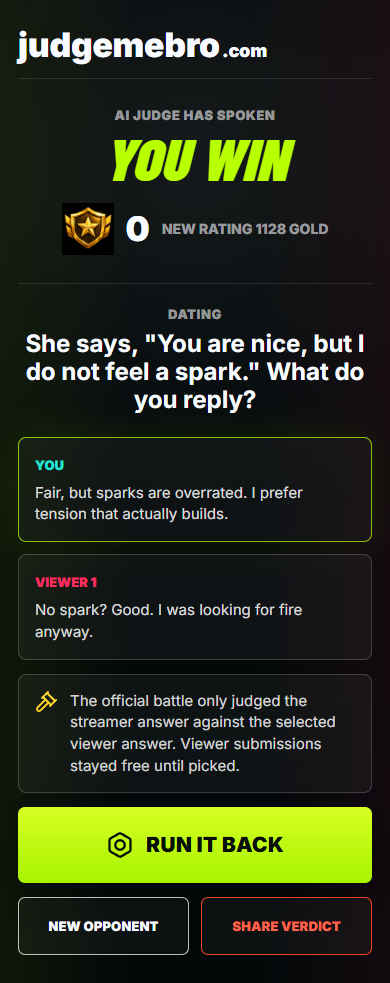
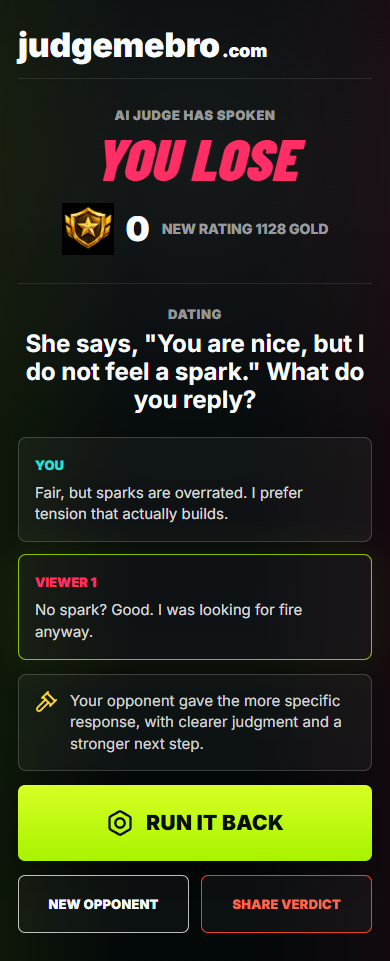
Add Vercel judge API

diff --git a/src/lib/judgeEngine.js b/src/lib/judgeEngine.js
@@ -1,0 +1,81 @@
+const MIN_STRONG_ANSWER_LENGTH = 42;
+
+export function normalizeAnswer(answer) {
+  return String(answer ?? "").trim();
+}
+
+export function judgeAnswers({
+  mode = "ranked",
+  category,
+  prompt,
+  yourAnswer,
+  opponentAnswer,
+  opponent = "Juno",
+}) {
+  const cleanYourAnswer = normalizeAnswer(yourAnswer);
+  const cleanOpponentAnswer = normalizeAnswer(opponentAnswer);
+  const noAnswer = cleanYourAnswer.length === 0;
+  const opponentMissed = cleanOpponentAnswer.length === 0;
+  const bothMissed = noAnswer && opponentMissed;
+
+  const specificityScore = scoreAnswer(cleanYourAnswer);
+  const opponentSpecificityScore = scoreAnswer(cleanOpponentAnswer);
+  const youWin = !bothMissed && !noAnswer && (opponentMissed || specificityScore >= opponentSpecificityScore);
+  const points = mode === "bot" || mode === "streamer" || bothMissed ? 0 : youWin ? 18 : -18;
+
+  return {
+    mode,
+    category,
+    opponent,
+    prompt,
+    yourAnswer: cleanYourAnswer || "No answer submitted.",
+    opponentAnswer: cleanOpponentAnswer || "No answer submitted.",
+    youWin,
+    points,
+    reason: buildReason({
+      bothMissed,
+      noAnswer,
+      opponentMissed,
+      youWin,
+      specificityScore,
+      opponentSpecificityScore,
+    }),
+    judgeModel: "local-deterministic-v1",
+  };
+}
+
+function scoreAnswer(answer) {
+  if (!answer) return 0;
+
+  const lengthScore = Math.min(answer.length / MIN_STRONG_ANSWER_LENGTH, 2);
+  const questionScore = answer.includes("?") ? 0.35 : 0;
+  const boundaryScore = /\b(no|not|can't|cannot|scope|quality|plan|checkpoint|confess|boundary|take it down)\b/i.test(answer)
+    ? 0.45
+    : 0;
+  const accountabilityScore = /\b(own|accountability|here is|next|what part|can we|before)\b/i.test(answer)
+    ? 0.35
+    : 0;
+  const panicPenalty = /\b(discount|done|whatever|fine|not my problem)\b/i.test(answer) ? -0.35 : 0;
+
+  return lengthScore + questionScore + boundaryScore + accountabilityScore + panicPenalty;
+}
+
+function buildReason({
+  bothMissed,
+  noAnswer,
+  opponentMissed,
+  youWin,
+  specificityScore,
+  opponentSpecificityScore,
+}) {
+  if (bothMissed) return "Both players missed the timer, so no rating change happens.";
+  if (noAnswer) return "You missed the timer, so the round goes to your opponent.";
+  if (opponentMissed) return "Your opponent missed the timer, so you win by default.";
+  if (youWin) {
+    return specificityScore > opponentSpecificityScore + 0.35
+      ? "You gave the more specific, controlled response and kept the situation moving."
+      : "Your answer was slightly stronger because it balanced confidence with a practical next step.";
+  }
+
+  return "Your opponent gave the more specific response, with clearer judgment and a stronger next step.";
+}

diff --git a/src/App.jsx b/src/App.jsx
@@ -1,4 +1,4 @@
-import { useEffect, useMemo, useState } from "react";
+import { useEffect, useMemo, useRef, useState } from "react";
 import {
   BadgeCheck,
   Bell,
@@ -29,6 +29,7 @@ import {
 } from "lucide-react";
 import { bots, categories, scenarios, viewerAnswers as seedViewerAnswers } from "./data.js";
 import { recordBattleResult, recordViewerSubmission } from "./lib/gameRepository.js";
+import { requestJudgeVerdict } from "./lib/judgeClient.js";
 
 const iconMap = {
   Briefcase,
@@ -48,30 +49,6 @@ function clampAnswer(value) {
 
 function getScenario(categoryId) {
   return scenarios[categoryId] ?? scenarios.social;
-}
-
-function buildResult({ category, answer, opponent = "Juno", mode = "ranked", botName }) {
-  const scenario = getScenario(category.id);
-  const typed = answer.trim();
-  const noAnswer = typed.length === 0;
-  const youWin = !noAnswer && typed.length >= 42;
-  const points = mode === "bot" ? 0 : youWin ? 18 : -18;
-
-  return {
-    mode,
-    category,
-    opponent: botName ?? opponent,
-    prompt: scenario.prompt,
-    yourAnswer: noAnswer ? "No answer submitted." : typed,
-    opponentAnswer: mode === "bot" ? scenario.winningAnswer : scenario.opponentAnswer,
-    youWin,
-    points,
-    reason: noAnswer
-      ? "You missed the timer, so the round goes to your opponent."
-      : youWin
-        ? scenario.reason
-        : "Your answer was shorter and less specific, so the judge gave the round away.",
-  };
 }
 
 function BrandHeader({ onHome, onProfile, onLeave, compact = false }) {
@@ -676,6 +653,7 @@ export function App() {
   const [friendJoined, setFriendJoined] = useState(false);
   const [battleMode, setBattleMode] = useState("ranked");
   const [botName, setBotName] = useState(null);
+  const isJudgingRef = useRef(false);
 
   const botReady = matchElapsed >= 5;
 
@@ -709,6 +687,7 @@ export function App() {
     setTimer(24);
     setMatchElapsed(0);
     setFriendJoined(false);
+    isJudgingRef.current = false;
   }
 
   function startMatchmaking() {
@@ -732,18 +711,24 @@ export function App() {
     window.setTimeout(() => finishRound(), 1600);
   }
 
-  function finishRound() {
-    const nextResult = buildResult({
+  async function finishRound() {
+    if (isJudgingRef.current) return;
+    isJudgingRef.current = true;
+    const scenario = getScenario(selectedCategory.id);
+    const nextResult = await requestJudgeVerdict({
       category: selectedCategory,
-      answer,
+      prompt: scenario.prompt,
+      yourAnswer: answer,
+      opponentAnswer: battleMode === "bot" ? scenario.winningAnswer : scenario.opponentAnswer,
       mode: battleMode,
-      botName,
+      opponent: botName ?? "Juno",
     });
     setResult(nextResult);
     recordBattleResult(nextResult).catch((error) => {
       console.warn("Battle result persistence failed", error);
     });
     setRating((current) => current + nextResult.points);
+    isJudgingRef.current = false;
     setScreen("result");
   }
 
@@ -759,23 +744,22 @@ export function App() {
     }
   }
 
-  function officialStreamerBattle(streamerAnswer, viewerAnswer) {
-    const nextResult = {
+  async function officialStreamerBattle(streamerAnswer, viewerAnswer) {
+    if (isJudgingRef.current) return;
+    isJudgingRef.current = true;
+    const nextResult = await requestJudgeVerdict({
       mode: "streamer",
       category: categories[1],
       opponent: viewerAnswer.name,
       prompt: getScenario("dating").prompt,
       yourAnswer: streamerAnswer,
       opponentAnswer: viewerAnswer.text,
-      youWin: streamerAnswer.length >= viewerAnswer.text.length,
-      points: 0,
-      reason:
-        "The official battle only judged the streamer answer against the selected viewer answer. Viewer submissions stayed free until picked.",
-    };
+    });
     setResult(nextResult);
     recordBattleResult(nextResult).catch((error) => {
       console.warn("Streamer battle persistence failed", error);
     });
+    isJudgingRef.current = false;
     setScreen("result");
   }
 

diff --git a/src/lib/judgeClient.js b/src/lib/judgeClient.js
@@ -1,0 +1,36 @@
+import { judgeAnswers } from "./judgeEngine.js";
+
+export async function requestJudgeVerdict(payload) {
+  if (shouldUseLocalJudge()) {
+    return {
+      ...judgeAnswers(payload),
+      judgeSource: "local-fallback",
+    };
+  }
+
+  try {
+    const response = await fetch("/api/judge", {
+      method: "POST",
+      headers: {
+        "Content-Type": "application/json",
+      },
+      body: JSON.stringify(payload),
+    });
+
+    if (!response.ok) throw new Error(`Judge API returned ${response.status}`);
+    const data = await response.json();
+    if (!data?.result) throw new Error("Judge API response missing result");
+    return { ...data.result, judgeSource: "api" };
+  } catch (error) {
+    return {
+      ...judgeAnswers(payload),
+      judgeSource: "local-fallback",
+      judgeError: error.message,
+    };
+  }
+}
+
+function shouldUseLocalJudge() {
+  if (typeof window === "undefined") return false;
+  return ["localhost", "127.0.0.1", "::1"].includes(window.location.hostname);
+}

diff --git a/api/judge.js b/api/judge.js
@@ -1,0 +1,35 @@
+import { judgeAnswers } from "../src/lib/judgeEngine.js";
+
+const MAX_CHARS = 280;
+
+export default function handler(request, response) {
+  if (request.method !== "POST") {
+    response.setHeader("Allow", "POST");
+    response.status(405).json({ error: "Method not allowed" });
+    return;
+  }
+
+  const payload = request.body ?? {};
+  const validationError = validatePayload(payload);
+  if (validationError) {
+    response.status(400).json({ error: validationError });
+    return;
+  }
+
+  const result = judgeAnswers(payload);
+  response.status(200).json({ result });
+}
+
+function validatePayload(payload) {
+  if (!payload || typeof payload !== "object") return "Missing JSON body";
+  if (!payload.category || typeof payload.category !== "object") return "Missing category";
+  if (typeof payload.category.id !== "string") return "Missing category id";
+  if (typeof payload.category.name !== "string") return "Missing category name";
+  if (typeof payload.prompt !== "string" || payload.prompt.length === 0) return "Missing prompt";
+  if (typeof payload.yourAnswer !== "string") return "Missing yourAnswer";
+  if (typeof payload.opponentAnswer !== "string") return "Missing opponentAnswer";
+  if (payload.yourAnswer.length > MAX_CHARS) return "yourAnswer exceeds 280 characters";
+  if (payload.opponentAnswer.length > MAX_CHARS) return "opponentAnswer exceeds 280 characters";
+  if (payload.mode && !["ranked", "friend", "bot", "streamer"].includes(payload.mode)) return "Invalid mode";
+  return null;
+}

diff --git a/docs/deployment.md b/docs/deployment.md
@@ -29,9 +29,16 @@ For GitHub-based deployment, connect the GitHub repo to Vercel and let pushes cr
 ```bash
 npm ci
 npm run build
+npm run test:judge
 npx playwright install --with-deps chromium
 npm run test:smoke
 ```
+
+## Judge API
+
+Vercel deploys `api/judge.js` as a serverless function. The client calls `/api/judge` first and falls back to the local deterministic judge engine when running in plain Vite preview or when the API is unavailable.
+
+The API intentionally judges only official battles. Streamer viewer answers are stored/displayed by default and should only be sent to `/api/judge` after the streamer manually selects one.
 
 If you later want CLI-based Vercel deployment from GitHub Actions, add these repository secrets:
 

diff --git a/README.md b/README.md
@@ -35,10 +35,11 @@ npm run build
 ## Smoke Test
 
 ```bash
+npm run test:judge
 npm run test:smoke
 ```
 
-The smoke test starts a built Vite preview and verifies the ranked, friend, bot, streamer, viewer, and official streamer battle flows.
+The judge test validates the Vercel API contract. The smoke test starts a built Vite preview and verifies the ranked, friend, bot, streamer, viewer, and official streamer battle flows.
 
 ## Setup Check
 